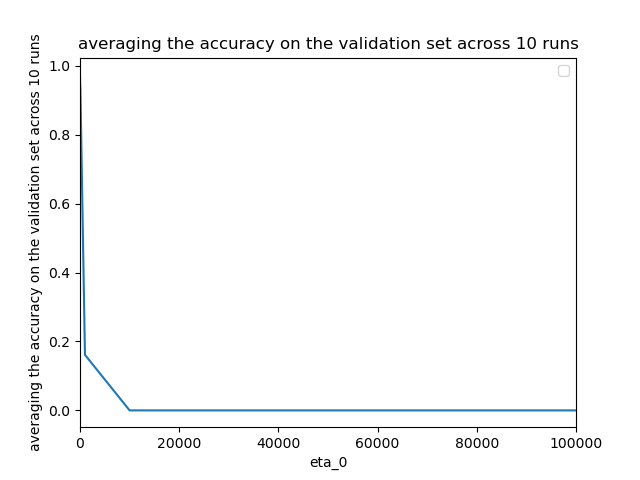
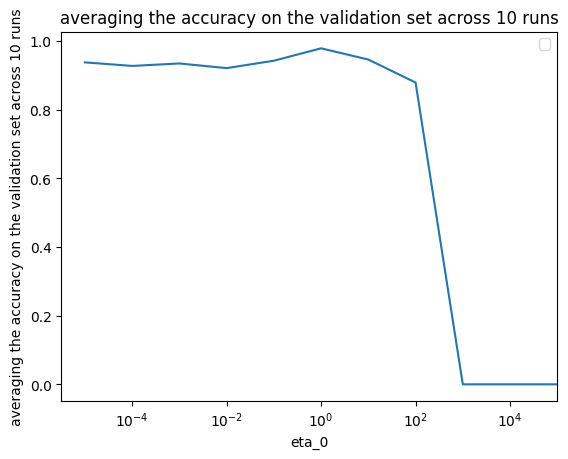
finish 1 on programing Q

diff --git a/skelton_sgd.py b/skelton_sgd.py
@@ -74,7 +74,7 @@ def SGD_log(data: np.ndarray, labels:np.ndarray, eta_0: float, T: int):
 
 
 
-def average_accuracy_plot(number_of_runs: int,  C: float, eta_0_lst: list, T: int) -> float:
+def average_accuracy_plot_eta(number_of_runs: int,  C: float, eta_0_lst: list, T: int, xlim_left, xlim_right) -> float:
     train_data, train_labels, validation_data, validation_labels = helper()[0] , helper()[1] ,helper()[2] ,helper()[3]
 
     y_axis = [] 
@@ -94,16 +94,62 @@ def average_accuracy_plot(number_of_runs: int,  C: float, eta_0_lst: list, T: in
             j = i 
     
     print('***********************************************')
-    print('The best eta_0 on avarage is: %.3f' % eta_0_lst[j] )
+    print('The best eta_0 on avarage is: %.6f' % eta_0_lst[j] )
     print('-----------------------------------------------')
     print('The best accuracy on avarage is: %.3f' % accu_of_best_eta_0)
     print('***********************************************')
     
     plt.plot(eta_0_lst, y_axis)   
+    plt.xscale('log')
     plt.title("averaging the accuracy on the validation set across 10 runs")
     plt.xlabel("eta_0")
     plt.ylabel("averaging the accuracy on the validation set across 10 runs")
-    plt.xlim(0.4, 1.6 )
+    plt.xlim(xlim_left, xlim_right)
+    ticks = [10**i for i in range(-5, 6)]
+    labels = ['10^{}'.format(i) for i in range(-5, 6)]
+    # plt.xticks(ticks, labels)
+    
+    plt.legend()
+    plt.show()
+
+    return eta_0_lst[j]
+
+def average_accuracy_plot_C(number_of_runs: int,  C_lst: list, eta_0  : float, T: int, xlim_left, xlim_right) -> float:
+    train_data, train_labels, validation_data, validation_labels = helper()[0] , helper()[1] ,helper()[2] ,helper()[3]
+
+    y_axis = [] 
+
+    for c in C_lst:
+        accur = 0 
+        for i in range(number_of_runs) :
+            w = SGD_hinge(train_data, train_labels, c, eta_0, T)
+            accur += accuracy_linear_classifier(w, validation_data, validation_labels)  
+        y_axis.append(accur / number_of_runs)
+
+    accu_of_best_C = 0
+    j = -1 
+    for i in range(len(y_axis)): 
+        if y_axis[i] > accu_of_best_C :
+            accu_of_best_C = y_axis[i]
+            j = i 
+    
+    print('***********************************************')
+    print('The best C on avarage is: %.6f' % C_lst[j] )
+    print('-----------------------------------------------')
+    print('The best accuracy on avarage is: %.3f' % accu_of_best_C)
+    print('***********************************************')
+    
+  
+    
+    plt.plot(C_lst, y_axis)   
+    plt.xscale('log')
+    plt.title("averaging the accuracy on the validation set across 10 runs")
+    plt.xlabel("C")
+    plt.ylabel("averaging the accuracy on the validation set across 10 runs")
+    ticks = [10**i for i in range(-5, 6)]
+    labels = [str(10**(i)) for i in range(-5, 6)]
+    plt.xticks(ticks, labels)
+    # plt.xlim(xlim_left, xlim_right)
     plt.legend()
     plt.show()
     
@@ -122,12 +168,38 @@ def accuracy_linear_classifier(w :np.ndarray , validation_data: np.ndarray, vali
 
     return 1 - (faild_number / N)
 
+def w_as_picture(best_eta, best_C, T):
+    train_data, train_labels, validation_data, validation_labels = helper()[0] , helper()[1] ,helper()[2] ,helper()[3]
+
+    w = SGD_hinge(train_data, train_labels, best_C, best_eta, T)
+
+    plt.imshow(np.reshape(w,(28,28)),interpolation = 'nearest' )
+    
+    accur = accuracy_linear_classifier(w, validation_data, validation_labels)
+    print('***********************************************')
+    print('The accuracy of the best classifier: %.6f' % accur )
+    print('-----------------------------------------------')
+  
+    plt.show()
+
+
 
 
 
 def main() : 
-    eta_0_lst = [i for i in np.arange (0.5,1.5,0.01)]
-    average_accuracy_plot(10, 1, eta_0_lst, 1000)
+    eta_0_lst = [10**i for i in range(-5,6,1)]
+    best_eta = average_accuracy_plot_eta(10, 1, eta_0_lst, 1000,0, 10**5)
+
+    # C_lst = [10**(i) for i in np.arange (-5,6,1)]
+    # C_lst = [10**(i) for i in range (-5,6,1)]
+    # average_accuracy_plot_C(10, C_lst, 0.97 , 1000, 0, 10**5)
+
+    # best_C = 22.4
+    # best_eta = 0.97 
+
+    # w_as_picture(best_eta, best_C, 20000 )
+
+
 
 
 
